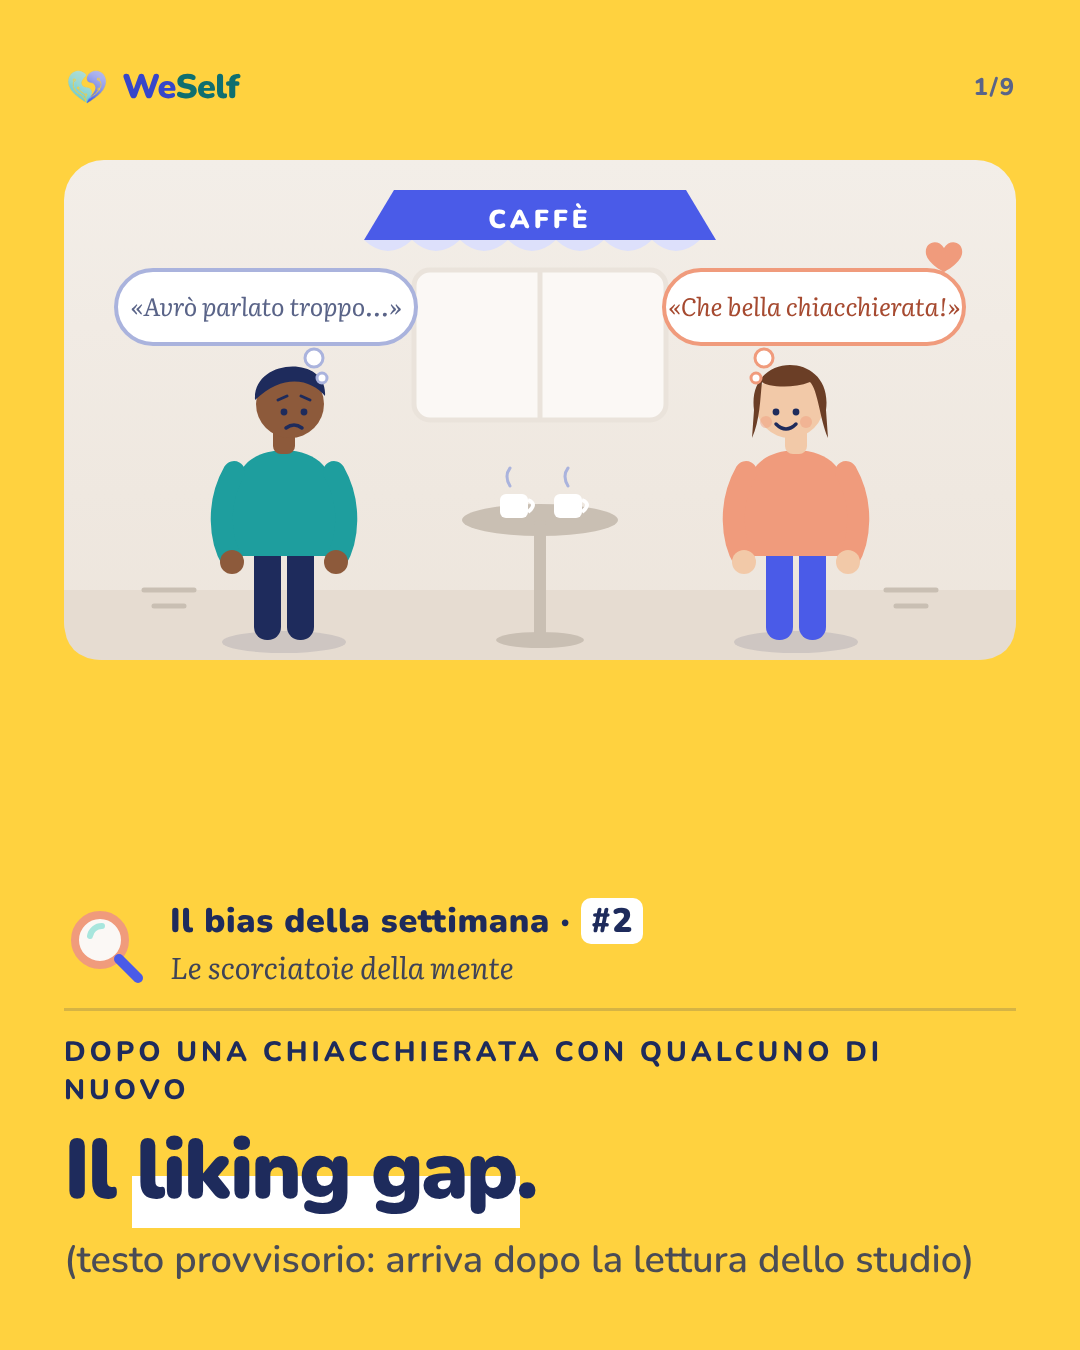
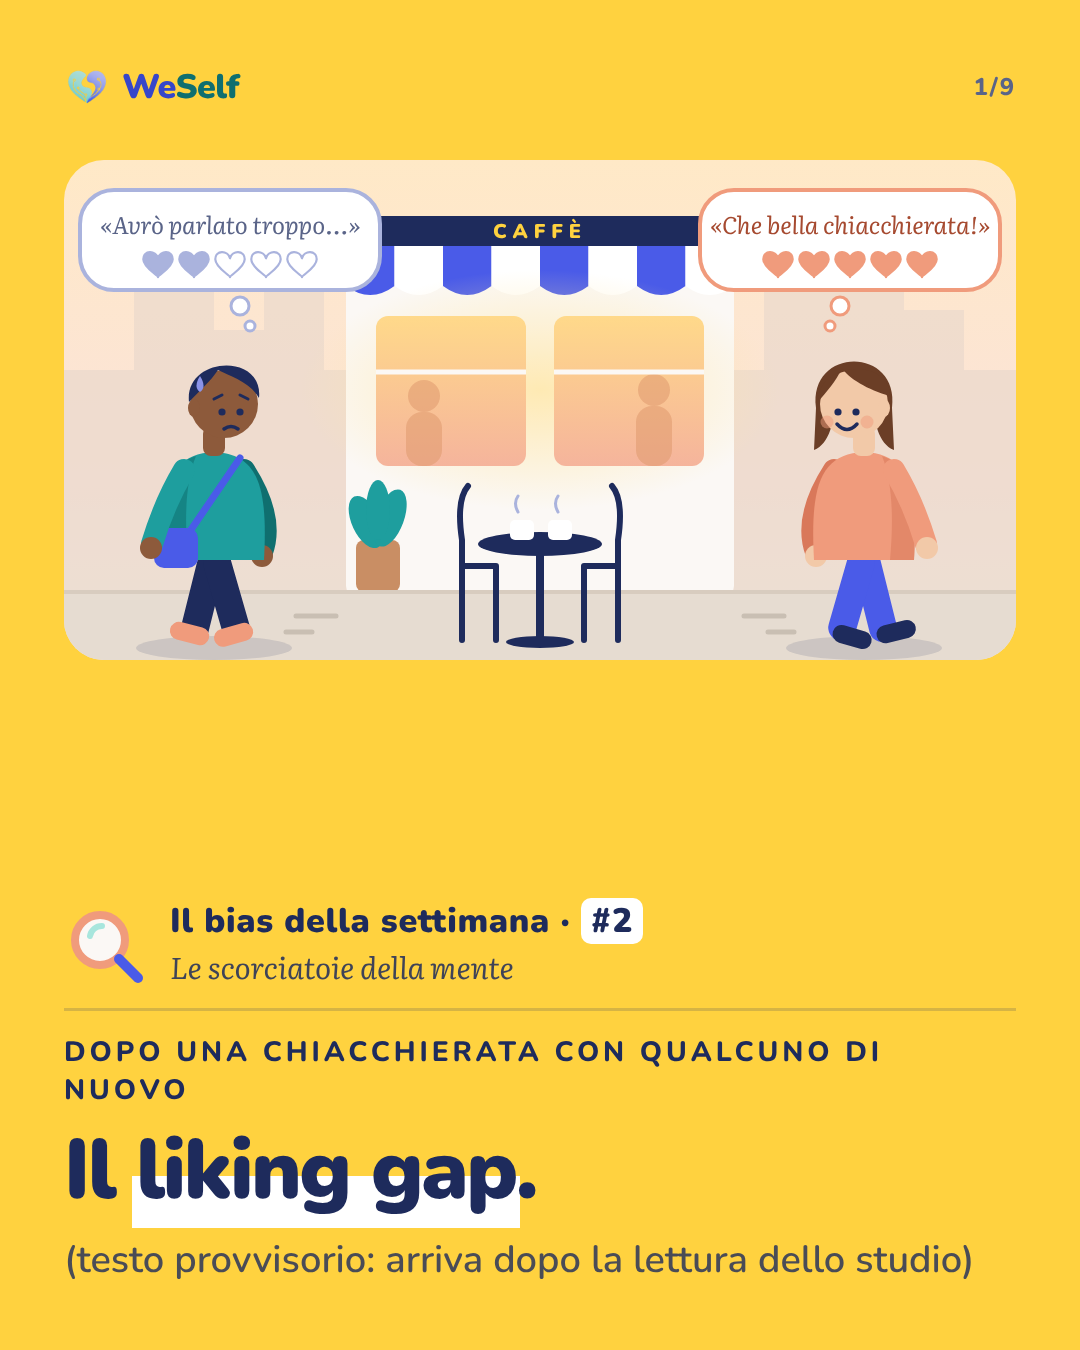
Bias #2: richer liking-gap cover illustration (café street scene, heart meters)
Claude-Session: https://claude.ai/code/session_01KYQeP73Zvn8PeP6zhkL2Sc

Changed region(s): [[0.0611, 0.0933, 0.9472, 0.4978]]

diff --git a/templates/bias/illustrazioni/liking.py b/templates/bias/illustrazioni/liking.py
@@ -1,55 +1,102 @@
-# Cover illustration for «liking gap»: after a chat, each person walks away with a different thought.
+# Cover illustration for «liking gap» (v2): two people leave a café after a first chat.
+# Each thought bubble carries a heart meter: the gap between what one thinks and what the other feels.
 INK="#1E2B5C"
-def person(x, skin, hair, shirt, pants, face="worried", look=1, hairstyle="short"):
-    s=f'<ellipse cx="{x}" cy="522" rx="62" ry="11" fill="{INK}" opacity=".12"/>'
-    s+=f'<rect x="{x-30}" y="420" width="27" height="100" rx="13" fill="{pants}"/><rect x="{x+3}" y="420" width="27" height="100" rx="13" fill="{pants}"/>'
-    s+=f'<path d="M{x-56} 436 C{x-58} 360 {x-46} 332 {x} 330 C{x+46} 332 {x+58} 360 {x+56} 436 Z" fill="{shirt}"/>'
-    s+=f'<path d="M{x-50} 352 C{x-68} 384 {x-64} 420 {x-52} 440" fill="none" stroke="{shirt}" stroke-width="22" stroke-linecap="round"/><circle cx="{x-52}" cy="442" r="12" fill="{skin}"/>'
-    s+=f'<path d="M{x+50} 352 C{x+68} 384 {x+64} 420 {x+52} 440" fill="none" stroke="{shirt}" stroke-width="22" stroke-linecap="round"/><circle cx="{x+52}" cy="442" r="12" fill="{skin}"/>'
-    s+=f'<rect x="{x-11}" y="304" width="22" height="30" rx="8" fill="{skin}"/>'
-    hx=x+6*look
-    s+=f'<circle cx="{hx}" cy="284" r="34" fill="{skin}"/>'
-    if hairstyle=="long":
-        s+=f'<path d="M{hx-36} 290 C{hx-44} 230 {hx+44} 230 {hx+36} 290 L{hx+38} 318 C{hx+30} 300 {hx+28} 270 {hx+20} 262 C{hx} 270 {hx-24} 266 {hx-28} 262 C{hx-30} 280 {hx-30} 300 {hx-38} 318 Z" fill="{hair}"/>'
+
+def heart(cx, cy, s, fill, stroke):
+    return (f'<path transform="translate({cx} {cy}) scale({s})" d="M0 6 C-2 -2 -14 -2 -14 7 C-14 15 0 22 0 24 C0 22 14 15 14 7 C14 -2 2 -2 0 6Z" '
+            f'fill="{fill}" stroke="{stroke}" stroke-width="{2.2/s:.2f}" stroke-linejoin="round"/>')
+
+def meter(x, y, n, on, off, stroke):
+    return "".join(heart(x+i*36, y, 1.05, on if i < n else off, stroke) for i in range(5))
+
+def walker(x, skin, hair, top, top_dk, pants, shoe, facing, mood, hairstyle, bag=None):
+    # facing: -1 walks left (looks back right), 1 walks right (looks back left)
+    f = facing
+    s = f'<ellipse cx="{x}" cy="528" rx="78" ry="12" fill="{INK}" opacity=".13"/>'
+    # legs mid-stride
+    s += f'<g transform="rotate({-14*f} {x} 432)"><rect x="{x-14}" y="430" width="28" height="94" rx="13" fill="{pants}"/><rect x="{x-16+8*f}" y="508" width="40" height="18" rx="9" fill="{shoe}"/></g>'
+    s += f'<g transform="rotate({16*f} {x} 432)"><rect x="{x-14}" y="430" width="28" height="94" rx="13" fill="{pants}"/><rect x="{x-16+8*f}" y="508" width="40" height="18" rx="9" fill="{shoe}"/></g>'
+    # back arm
+    s += f'<path d="M{x-30*f} 350 C{x-52*f} 384 {x-56*f} 410 {x-48*f} 432" fill="none" stroke="{top_dk}" stroke-width="22" stroke-linecap="round"/><circle cx="{x-48*f}" cy="436" r="11" fill="{skin}"/>'
+    # torso with shading
+    s += f'<path d="M{x-50} 440 C{x-54} 366 {x-44} 334 {x} 332 C{x+44} 334 {x+54} 366 {x+50} 440 Z" fill="{top}"/>'
+    s += f'<path d="M{x+18*f} 336 C{x+46*f} 344 {x+54*f} 380 {x+50*f} 440 L{x+26*f} 440 C{x+30*f} 396 {x+28*f} 360 {x+18*f} 336Z" fill="{top_dk}" opacity=".55"/>'
+    if bag:
+        s += f'<path d="M{x-26*f} 338 L{x+30*f} 420" stroke="{bag}" stroke-width="7" stroke-linecap="round"/><rect x="{x+16*f-(0 if f>0 else 44)}" y="408" width="44" height="40" rx="10" fill="{bag}"/>'
+    # front arm swinging
+    s += f'<path d="M{x+30*f} 350 C{x+48*f} 380 {x+56*f} 404 {x+62*f} 424" fill="none" stroke="{top}" stroke-width="22" stroke-linecap="round"/><circle cx="{x+63*f}" cy="428" r="11" fill="{skin}"/>'
+    # neck + head turned back over the shoulder
+    hx = x - 10*f
+    s += f'<rect x="{x-11}" y="306" width="22" height="30" rx="8" fill="{skin}"/>'
+    if hairstyle == "long":
+        s += f'<path d="M{hx-38} 288 C{hx-46} 226 {hx+46} 226 {hx+38} 288 L{hx+40} 330 C{hx+24} 324 {hx+20} 300 {hx+18} 280 L{hx-18} 280 C{hx-20} 300 {hx-24} 324 {hx-40} 330 Z" fill="{hair}"/>'
+    s += f'<circle cx="{hx}" cy="284" r="34" fill="{skin}"/>'
+    s += f'<ellipse cx="{hx+30*f}" cy="288" rx="6" ry="9" fill="{skin}"/>'
+    if hairstyle == "long":
+        s += f'<path d="M{hx-36} 282 C{hx-36} 240 {hx+36} 238 {hx+36} 276 C{hx+14} 270 {hx-6} 258 {hx-12} 248 C{hx-18} 262 {hx-28} 272 {hx-36} 282Z" fill="{hair}"/>'
     else:
-        s+=f'<path d="M{hx-35} 280 C{hx-38} 238 {hx+38} 234 {hx+35} 276 C{hx+22} 260 {hx-6} 252 {hx-35} 280 Z" fill="{hair}"/>'
-    ex=4*look
-    s+=f'<circle cx="{hx-10+ex}" cy="292" r="3.4" fill="{INK}"/><circle cx="{hx+10+ex}" cy="292" r="3.4" fill="{INK}"/>'
-    if face=="worried":
-        s+=f'<path d="M{hx-8+ex} 308 q8 -6 16 0" fill="none" stroke="{INK}" stroke-width="3.5" stroke-linecap="round"/>'
-        s+=f'<path d="M{hx-16+ex} 280 l9 -4 M{hx+16+ex} 280 l-9 -4" stroke="{INK}" stroke-width="3" stroke-linecap="round"/>'
+        s += f'<path d="M{hx-35} 282 C{hx-40} 236 {hx+40} 232 {hx+35} 278 C{hx+26} 262 {hx+6} 256 {hx-6} 250 C{hx-14} 262 {hx-24} 270 {hx-35} 282Z" fill="{hair}"/>'
+    ex = -7*f
+    s += f'<circle cx="{hx-9+ex}" cy="292" r="3.6" fill="{INK}"/><circle cx="{hx+9+ex}" cy="292" r="3.6" fill="{INK}"/>'
+    if mood == "worried":
+        s += f'<path d="M{hx-17+ex} 279 l8 -4 M{hx+17+ex} 279 l-8 -4" stroke="{INK}" stroke-width="3" stroke-linecap="round"/>'
+        s += f'<path d="M{hx-7+ex} 309 q7 -5 14 0" fill="none" stroke="{INK}" stroke-width="3.5" stroke-linecap="round"/>'
+        s += f'<path d="M{hx+24*f} 256 q7 11 0 16 q-7 -5 0 -16z" fill="#8B93E8"/>'
     else:
-        s+=f'<path d="M{hx-10+ex} 304 q10 10 20 0" fill="none" stroke="{INK}" stroke-width="3.5" stroke-linecap="round"/>'
-        s+=f'<circle cx="{hx-20+ex}" cy="302" r="6" fill="#F09B7C" opacity=".45"/><circle cx="{hx+20+ex}" cy="302" r="6" fill="#F09B7C" opacity=".45"/>'
+        s += f'<path d="M{hx-10+ex} 304 q10 11 20 0" fill="none" stroke="{INK}" stroke-width="3.5" stroke-linecap="round"/>'
+        s += f'<circle cx="{hx-20+ex}" cy="302" r="6.5" fill="#F09B7C" opacity=".5"/><circle cx="{hx+20+ex}" cy="302" r="6.5" fill="#F09B7C" opacity=".5"/>'
     return s
 
-def cloud(x,y,w,h,txt,stroke,color,tailx,taily):
-    return (f'<g><rect x="{x}" y="{y}" width="{w}" height="{h}" rx="{h/2}" fill="#FFFFFF" stroke="{stroke}" stroke-width="4"/>'
-            f'<circle cx="{tailx}" cy="{taily}" r="9" fill="#FFFFFF" stroke="{stroke}" stroke-width="3"/><circle cx="{tailx+(8 if tailx>x+w/2 else -8)}" cy="{taily+20}" r="5" fill="#FFFFFF" stroke="{stroke}" stroke-width="3"/>'
-            f'<text x="{x+w/2}" y="{y+h/2+9}" text-anchor="middle" font-family="Literata" font-style="italic" font-size="25" fill="{color}">{txt}</text></g>')
+def bubble(x, y, w, h, txt, n, stroke, txtc, on, tail):
+    s = f'<g><rect x="{x}" y="{y}" width="{w}" height="{h}" rx="34" fill="#FFFFFF" stroke="{stroke}" stroke-width="4"/>'
+    s += f'<text x="{x+w/2}" y="{y+44}" text-anchor="middle" font-family="Literata" font-style="italic" font-size="24" fill="{txtc}">{txt}</text>'
+    s += meter(x+w/2-72, y+62, n, on, "#FFFFFF", stroke)
+    tx, ty = tail
+    s += f'<circle cx="{tx}" cy="{ty}" r="9" fill="#FFFFFF" stroke="{stroke}" stroke-width="3"/><circle cx="{tx+(10 if tx>x+w/2 else -10)}" cy="{ty+20}" r="5" fill="#FFFFFF" stroke="{stroke}" stroke-width="3"/></g>'
+    return s
 
 def svg():
-    s='<svg width="952" height="600" viewBox="0 0 952 600" style="display:block;margin-top:10px;align-self:center">'
-    s+='''<defs><linearGradient id="lw" x1="0" y1="0" x2="0" y2="1"><stop offset="0" stop-color="#F3EEE8"/><stop offset="1" stop-color="#EDE5DC"/></linearGradient>
-<radialGradient id="lg" cx=".5" cy=".5" r=".5"><stop offset="0" stop-color="#FFFFFF" stop-opacity=".9"/><stop offset="1" stop-color="#FFFFFF" stop-opacity="0"/></radialGradient></defs>'''
-    s+='<rect x="0" y="40" width="952" height="500" rx="40" fill="url(#lw)"/>'
-    # café: awning, window, round table with two cups between them
-    s+='<path d="M330 70 H622 L652 120 H300 Z" fill="#4A5BE8"/><path d="M300 120 q24 22 48 0 q24 22 48 0 q24 22 48 0 q24 22 48 0 q24 22 48 0 q24 22 48 0 q24 22 48 0" fill="#DDE0FB"/>'
-    s+='<rect x="350" y="150" width="252" height="150" rx="16" fill="#FBF8F5" stroke="#EAE3DB" stroke-width="5"/><line x1="476" y1="150" x2="476" y2="300" stroke="#EAE3DB" stroke-width="5"/>'
-    s+='<text x="476" y="108" text-anchor="middle" font-family="Nunito" font-weight="900" font-size="26" fill="#FFFFFF" letter-spacing="4">CAFFÈ</text>'
-    s+='<path d="M0 470 H952 V500 Q952 540 912 540 H40 Q0 540 0 500 Z" fill="#E6DCD1"/>'
-    s+='<ellipse cx="476" cy="400" rx="78" ry="16" fill="#C9BFB3"/><rect x="470" y="400" width="12" height="118" rx="5" fill="#C9BFB3"/><ellipse cx="476" cy="520" rx="44" ry="8" fill="#C9BFB3"/>'
-    s+='<rect x="436" y="374" width="28" height="24" rx="6" fill="#FFFFFF"/><path d="M464 380 q10 4 0 12" fill="none" stroke="#FFFFFF" stroke-width="4"/>'
-    s+='<rect x="490" y="374" width="28" height="24" rx="6" fill="#FFFFFF"/><path d="M518 380 q10 4 0 12" fill="none" stroke="#FFFFFF" stroke-width="4"/>'
-    s+='<path d="M446 366 q-6 -10 0 -18 M504 366 q-6 -10 0 -18" fill="none" stroke="#AAB3DD" stroke-width="3" stroke-linecap="round"/>'
-    # walking-away hints
-    s+='<path d="M130 470 h-50 M120 486 h-30" stroke="#C9BFB3" stroke-width="5" stroke-linecap="round"/><path d="M822 470 h50 M832 486 h30" stroke="#C9BFB3" stroke-width="5" stroke-linecap="round"/>'
-    # left: worried, looking back; right: smiling
-    s+=person(220,"#8D5A3B","#1E2B5C","#1E9E9E","#1E2B5C","worried",1,"short")
-    s+=person(732,"#F2C9A8","#6B3E26","#F09B7C","#4A5BE8","happy",-1,"long")
-    s+=cloud(52,150,300,74,"«Avrò parlato troppo…»","#AAB3DD","#5A6488",250,238)
-    s+=cloud(600,150,300,74,"«Che bella chiacchierata!»","#F09B7C","#A64A30",700,238)
-    s+='<path d="M880 128 c-6 -10 -20 -6 -18 6 c2 10 18 18 18 18 c0 0 16 -8 18 -18 c2 -12 -12 -16 -18 -6z" fill="#F09B7C"/>'
-    s+='</svg>'
+    s = '<svg width="952" height="600" viewBox="0 0 952 600" style="display:block;margin-top:10px;align-self:center">'
+    s += '''<defs>
+<linearGradient id="lk-sky" x1="0" y1="0" x2="0" y2="1"><stop offset="0" stop-color="#FFE9C7"/><stop offset=".6" stop-color="#FBE3D8"/><stop offset="1" stop-color="#F3EEE8"/></linearGradient>
+<linearGradient id="lk-win" x1="0" y1="0" x2="0" y2="1"><stop offset="0" stop-color="#FFD98A"/><stop offset="1" stop-color="#F5B49C"/></linearGradient>
+<radialGradient id="lk-glow" cx=".5" cy=".5" r=".5"><stop offset="0" stop-color="#FFE7A8" stop-opacity=".85"/><stop offset="1" stop-color="#FFE7A8" stop-opacity="0"/></radialGradient>
+<clipPath id="lk-card"><rect x="0" y="40" width="952" height="500" rx="40"/></clipPath>
+</defs><g clip-path="url(#lk-card)">'''
+    s += '<rect x="0" y="40" width="952" height="500" fill="url(#lk-sky)"/>'
+    # distant buildings
+    s += '<path d="M0 250 H70 V170 H150 V210 H200 V140 H260 V250 H952 V540 H0Z" fill="#EAD9CC" opacity=".7"/>'
+    s += '<path d="M700 250 V160 H770 V120 H840 V190 H900 V250Z" fill="#EAD9CC" opacity=".7"/>'
+    # café facade
+    s += '<rect x="282" y="96" width="388" height="380" rx="10" fill="#FBF8F5"/>'
+    s += '<rect x="282" y="96" width="388" height="30" fill="#1E2B5C"/><text x="476" y="118" text-anchor="middle" font-family="Nunito" font-weight="900" font-size="20" fill="#FFD23F" letter-spacing="6">CAFFÈ</text>'
+    stripes = "".join(f'<path d="M{282+i*48.5} 126 h48.5 v40 q-24.25 18 -48.5 0z" fill="{"#4A5BE8" if i%2==0 else "#FFFFFF"}"/>' for i in range(8))
+    s += stripes
+    s += '<ellipse cx="476" cy="270" rx="240" ry="120" fill="url(#lk-glow)"/>'
+    s += '<rect x="312" y="196" width="150" height="150" rx="12" fill="url(#lk-win)"/><rect x="490" y="196" width="150" height="150" rx="12" fill="url(#lk-win)"/>'
+    # silhouettes inside
+    s += '<g fill="#E09A6E" opacity=".55"><circle cx="360" cy="276" r="16"/><rect x="342" y="292" width="36" height="54" rx="16"/><circle cx="590" cy="270" r="16"/><rect x="572" y="286" width="36" height="60" rx="16"/></g>'
+    s += '<path d="M312 252 H462 M490 252 H640" stroke="#FBF8F5" stroke-width="5"/>'
+    # plant
+    s += '<rect x="292" y="420" width="44" height="52" rx="8" fill="#C98E64"/><g fill="#1E9E9E"><ellipse cx="302" cy="402" rx="14" ry="28" transform="rotate(-25 302 402)"/><ellipse cx="326" cy="398" rx="14" ry="30" transform="rotate(20 326 398)"/><ellipse cx="314" cy="390" rx="12" ry="30"/></g>'
+    # street
+    s += '<rect x="0" y="472" width="952" height="70" fill="#E6DCD1"/><path d="M0 472 H952" stroke="#D8CCBF" stroke-width="4"/>'
+    # bistro table, two chairs, two cups (the conversation that just ended)
+    s += '<g stroke="#1E2B5C" stroke-width="6" fill="none" stroke-linecap="round"><path d="M398 420 v100 M398 446 h34 M432 446 v74 M398 420 q-6 -40 6 -54"/><path d="M554 420 v100 M554 446 h-34 M520 446 v74 M554 420 q6 -40 -6 -54"/></g>'
+    s += '<ellipse cx="476" cy="424" rx="62" ry="12" fill="#1E2B5C"/><rect x="472" y="424" width="8" height="96" fill="#1E2B5C"/><ellipse cx="476" cy="522" rx="34" ry="6" fill="#1E2B5C"/>'
+    s += '<rect x="446" y="400" width="24" height="20" rx="5" fill="#FFFFFF"/><rect x="484" y="400" width="24" height="20" rx="5" fill="#FFFFFF"/>'
+    s += '<path d="M454 392 q-5 -9 0 -16 M494 392 q-5 -9 0 -16" fill="none" stroke="#AAB3DD" stroke-width="3" stroke-linecap="round"/>'
+    # motion lines
+    s += '<path d="M232 496 h40 M222 512 h26" stroke="#C9BFB3" stroke-width="5" stroke-linecap="round"/><path d="M720 496 h-40 M730 512 h-26" stroke="#C9BFB3" stroke-width="5" stroke-linecap="round"/>'
+    # the two people walking away, looking back
+    s += walker(150, "#8D5A3B", "#1E2B5C", "#1E9E9E", "#0F6F6F", "#1E2B5C", "#F09B7C", -1, "worried", "short", bag="#4A5BE8")
+    s += walker(800, "#F2C9A8", "#6B3E26", "#F09B7C", "#D9785A", "#4A5BE8", "#1E2B5C", 1, "happy", "long")
+    s += '</g>'
+    # bubbles with heart meters (outside the clip, can overlap the card edge)
+    s += bubble(16, 70, 300, 100, "«Avrò parlato troppo…»", 2, "#AAB3DD", "#5A6488", "#AAB3DD", (176, 186))
+    s += bubble(636, 70, 300, 100, "«Che bella chiacchierata!»", 5, "#F09B7C", "#A64A30", "#F09B7C", (776, 186))
+    s += '</svg>'
     return s
-if __name__=="__main__": print(svg())
+
+if __name__ == "__main__":
+    print(svg())
